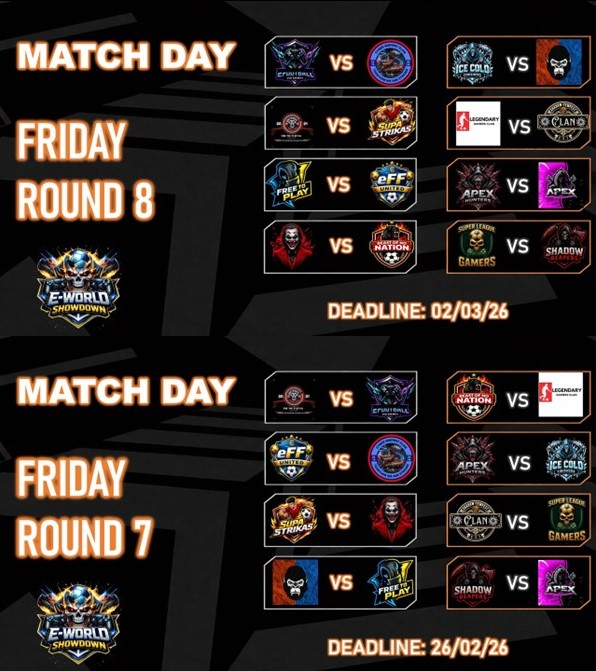
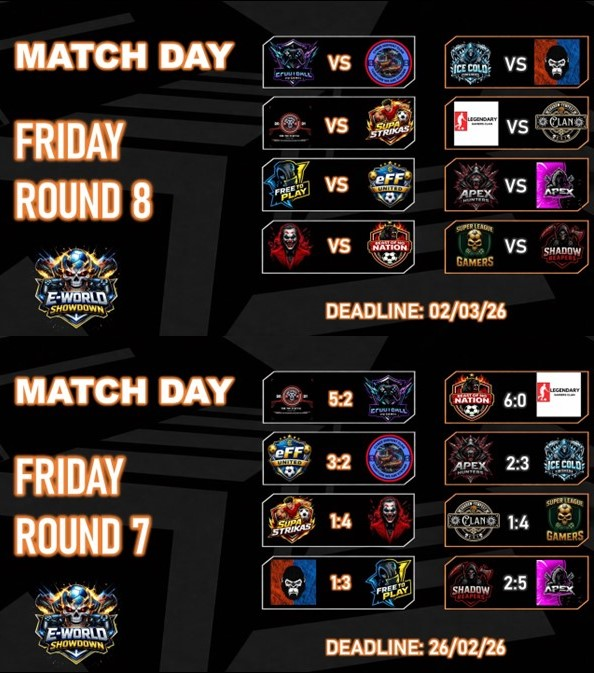
Round 7 update

diff --git a/index.html b/index.html
@@ -128,9 +128,8 @@
             <div class="row league-container">
                 <div class="col-0">
                     <h2>E-World League Cup</h2>
+                        <img src="images/tournaments/tournament stats/League.jpg">
                     <div class="league-scroll">
-                        <img src="images/tournaments/tournament stats/League Table.jpg">
-                        <img src="images/tournaments/tournament stats/League Goals.jpg">
                         <img src="images/tournaments/tournament stats/Round 7 and 8.jpg">
                         <img src="images/tournaments/tournament stats/Round 5 and 6.jpg">
                         <img src="images/tournaments/tournament stats/Round 3 and 4.jpg">
